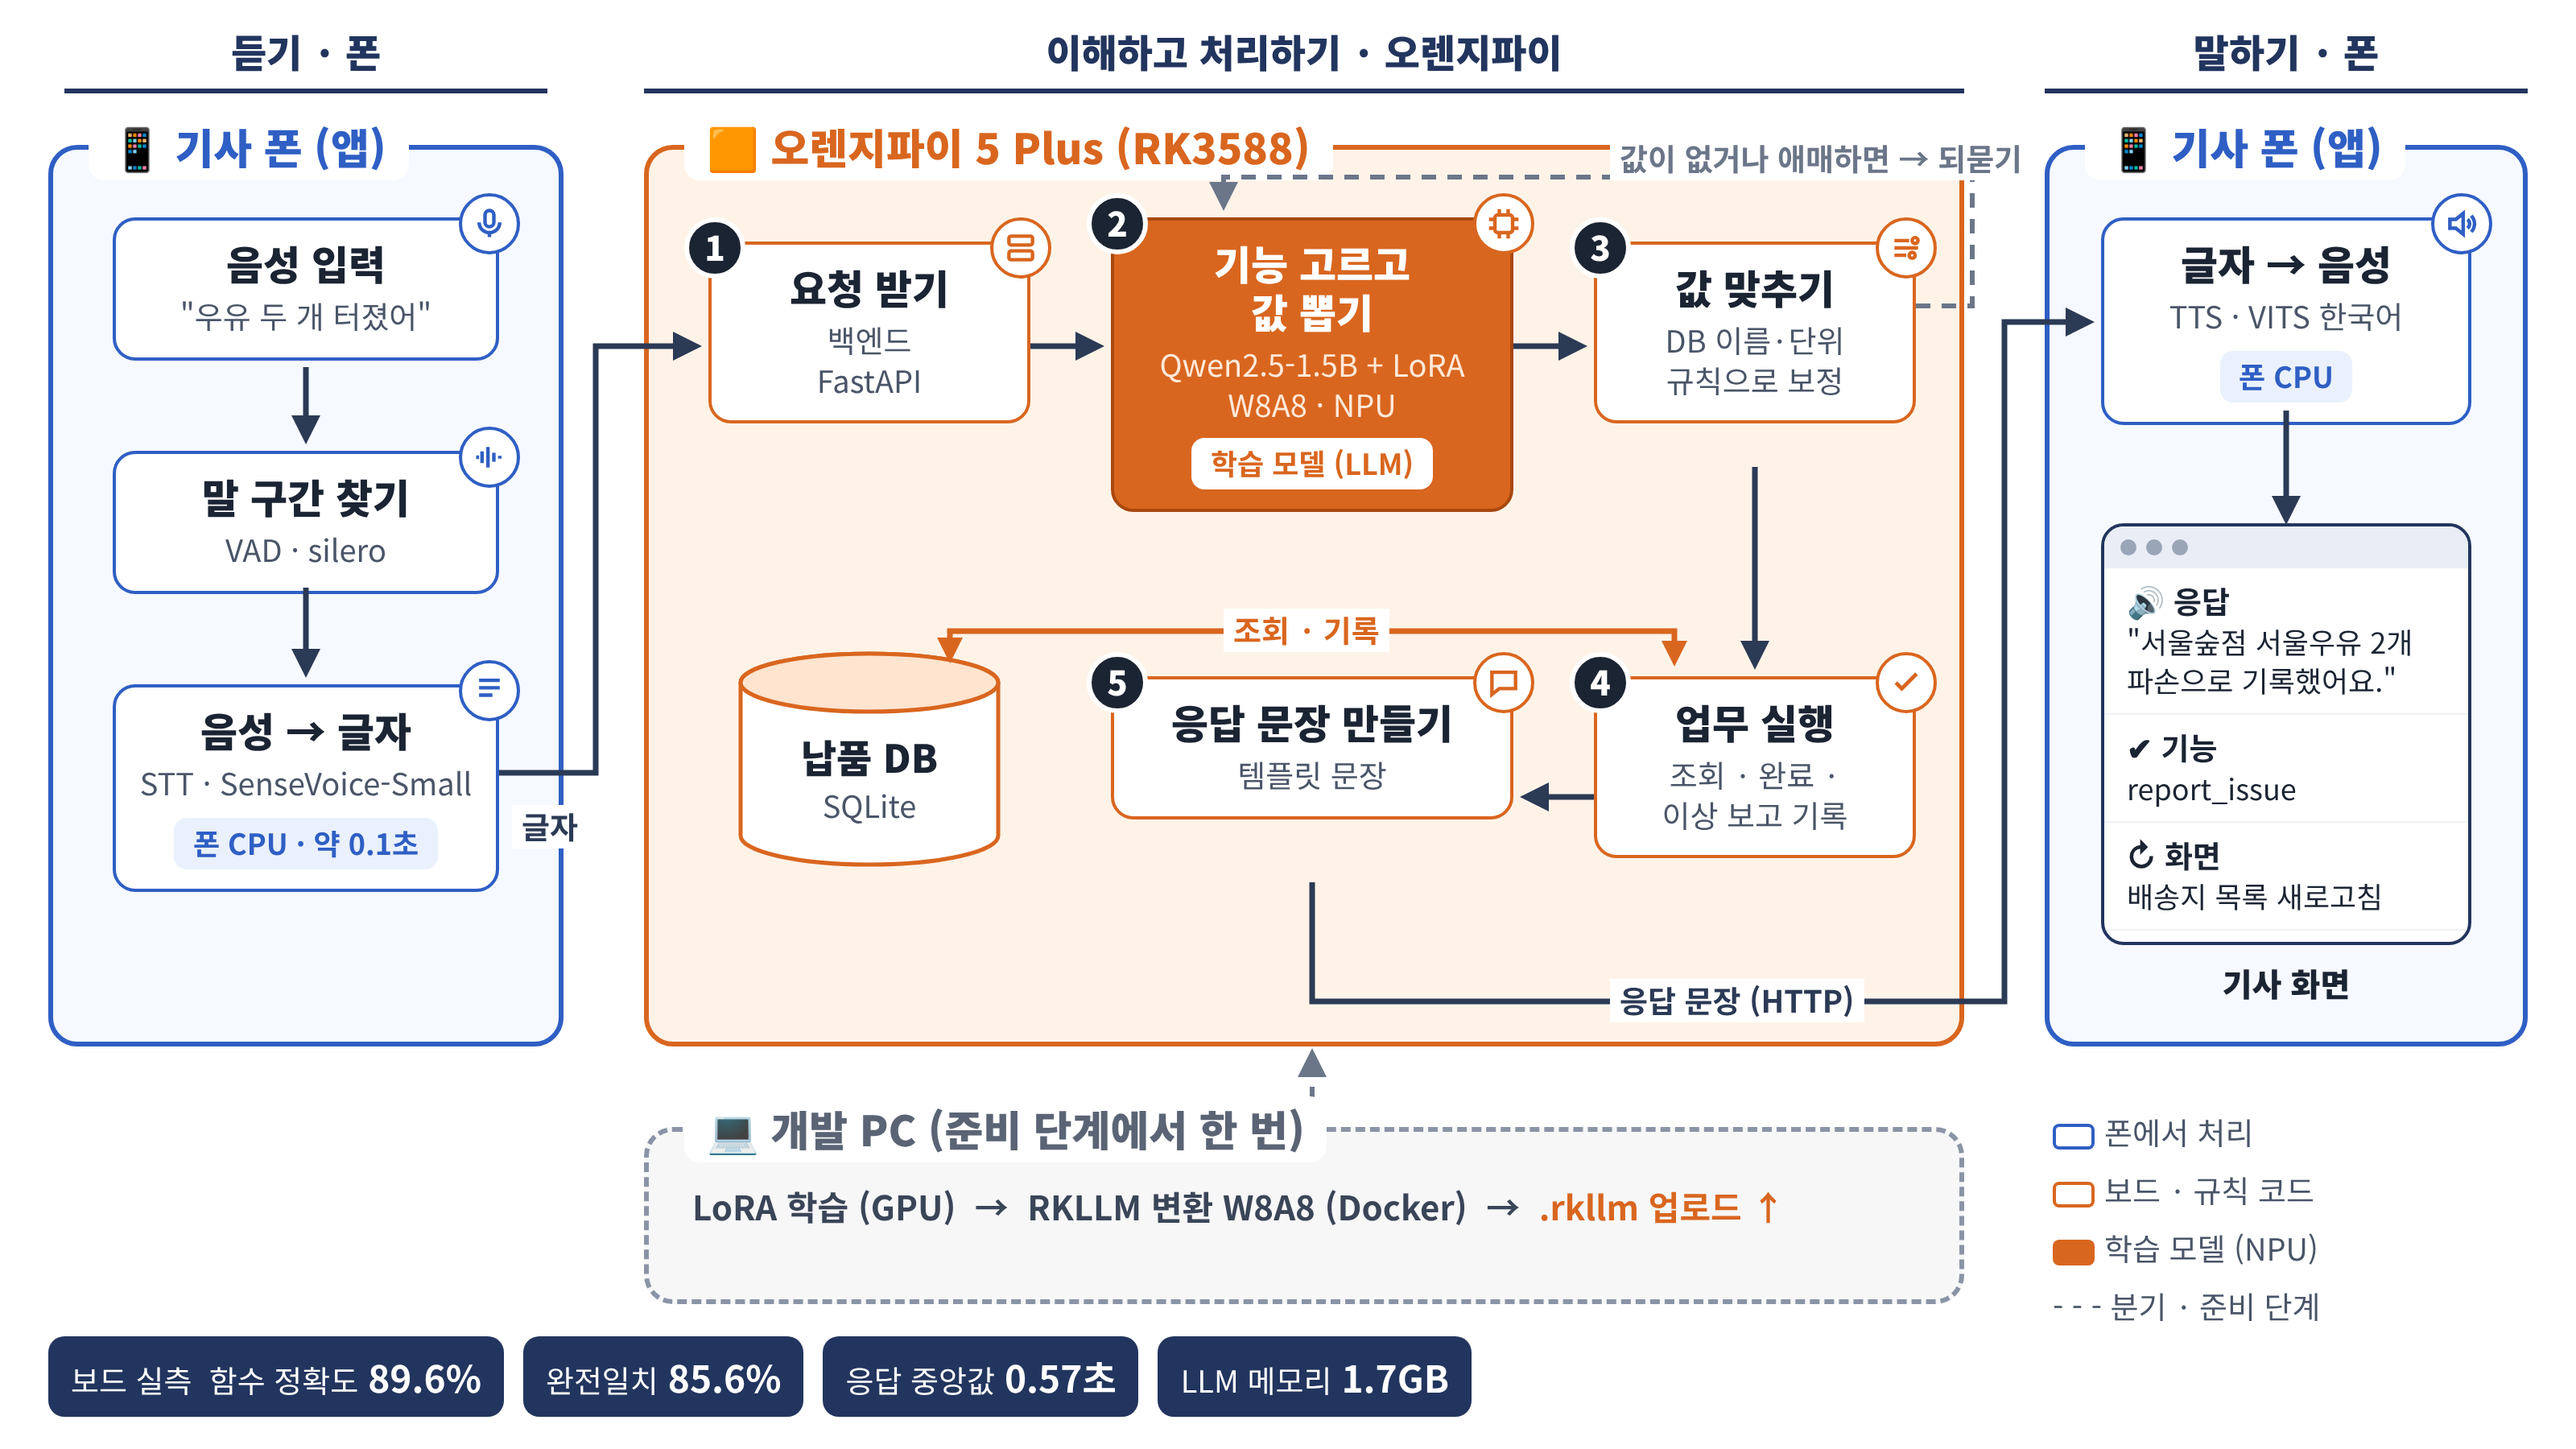
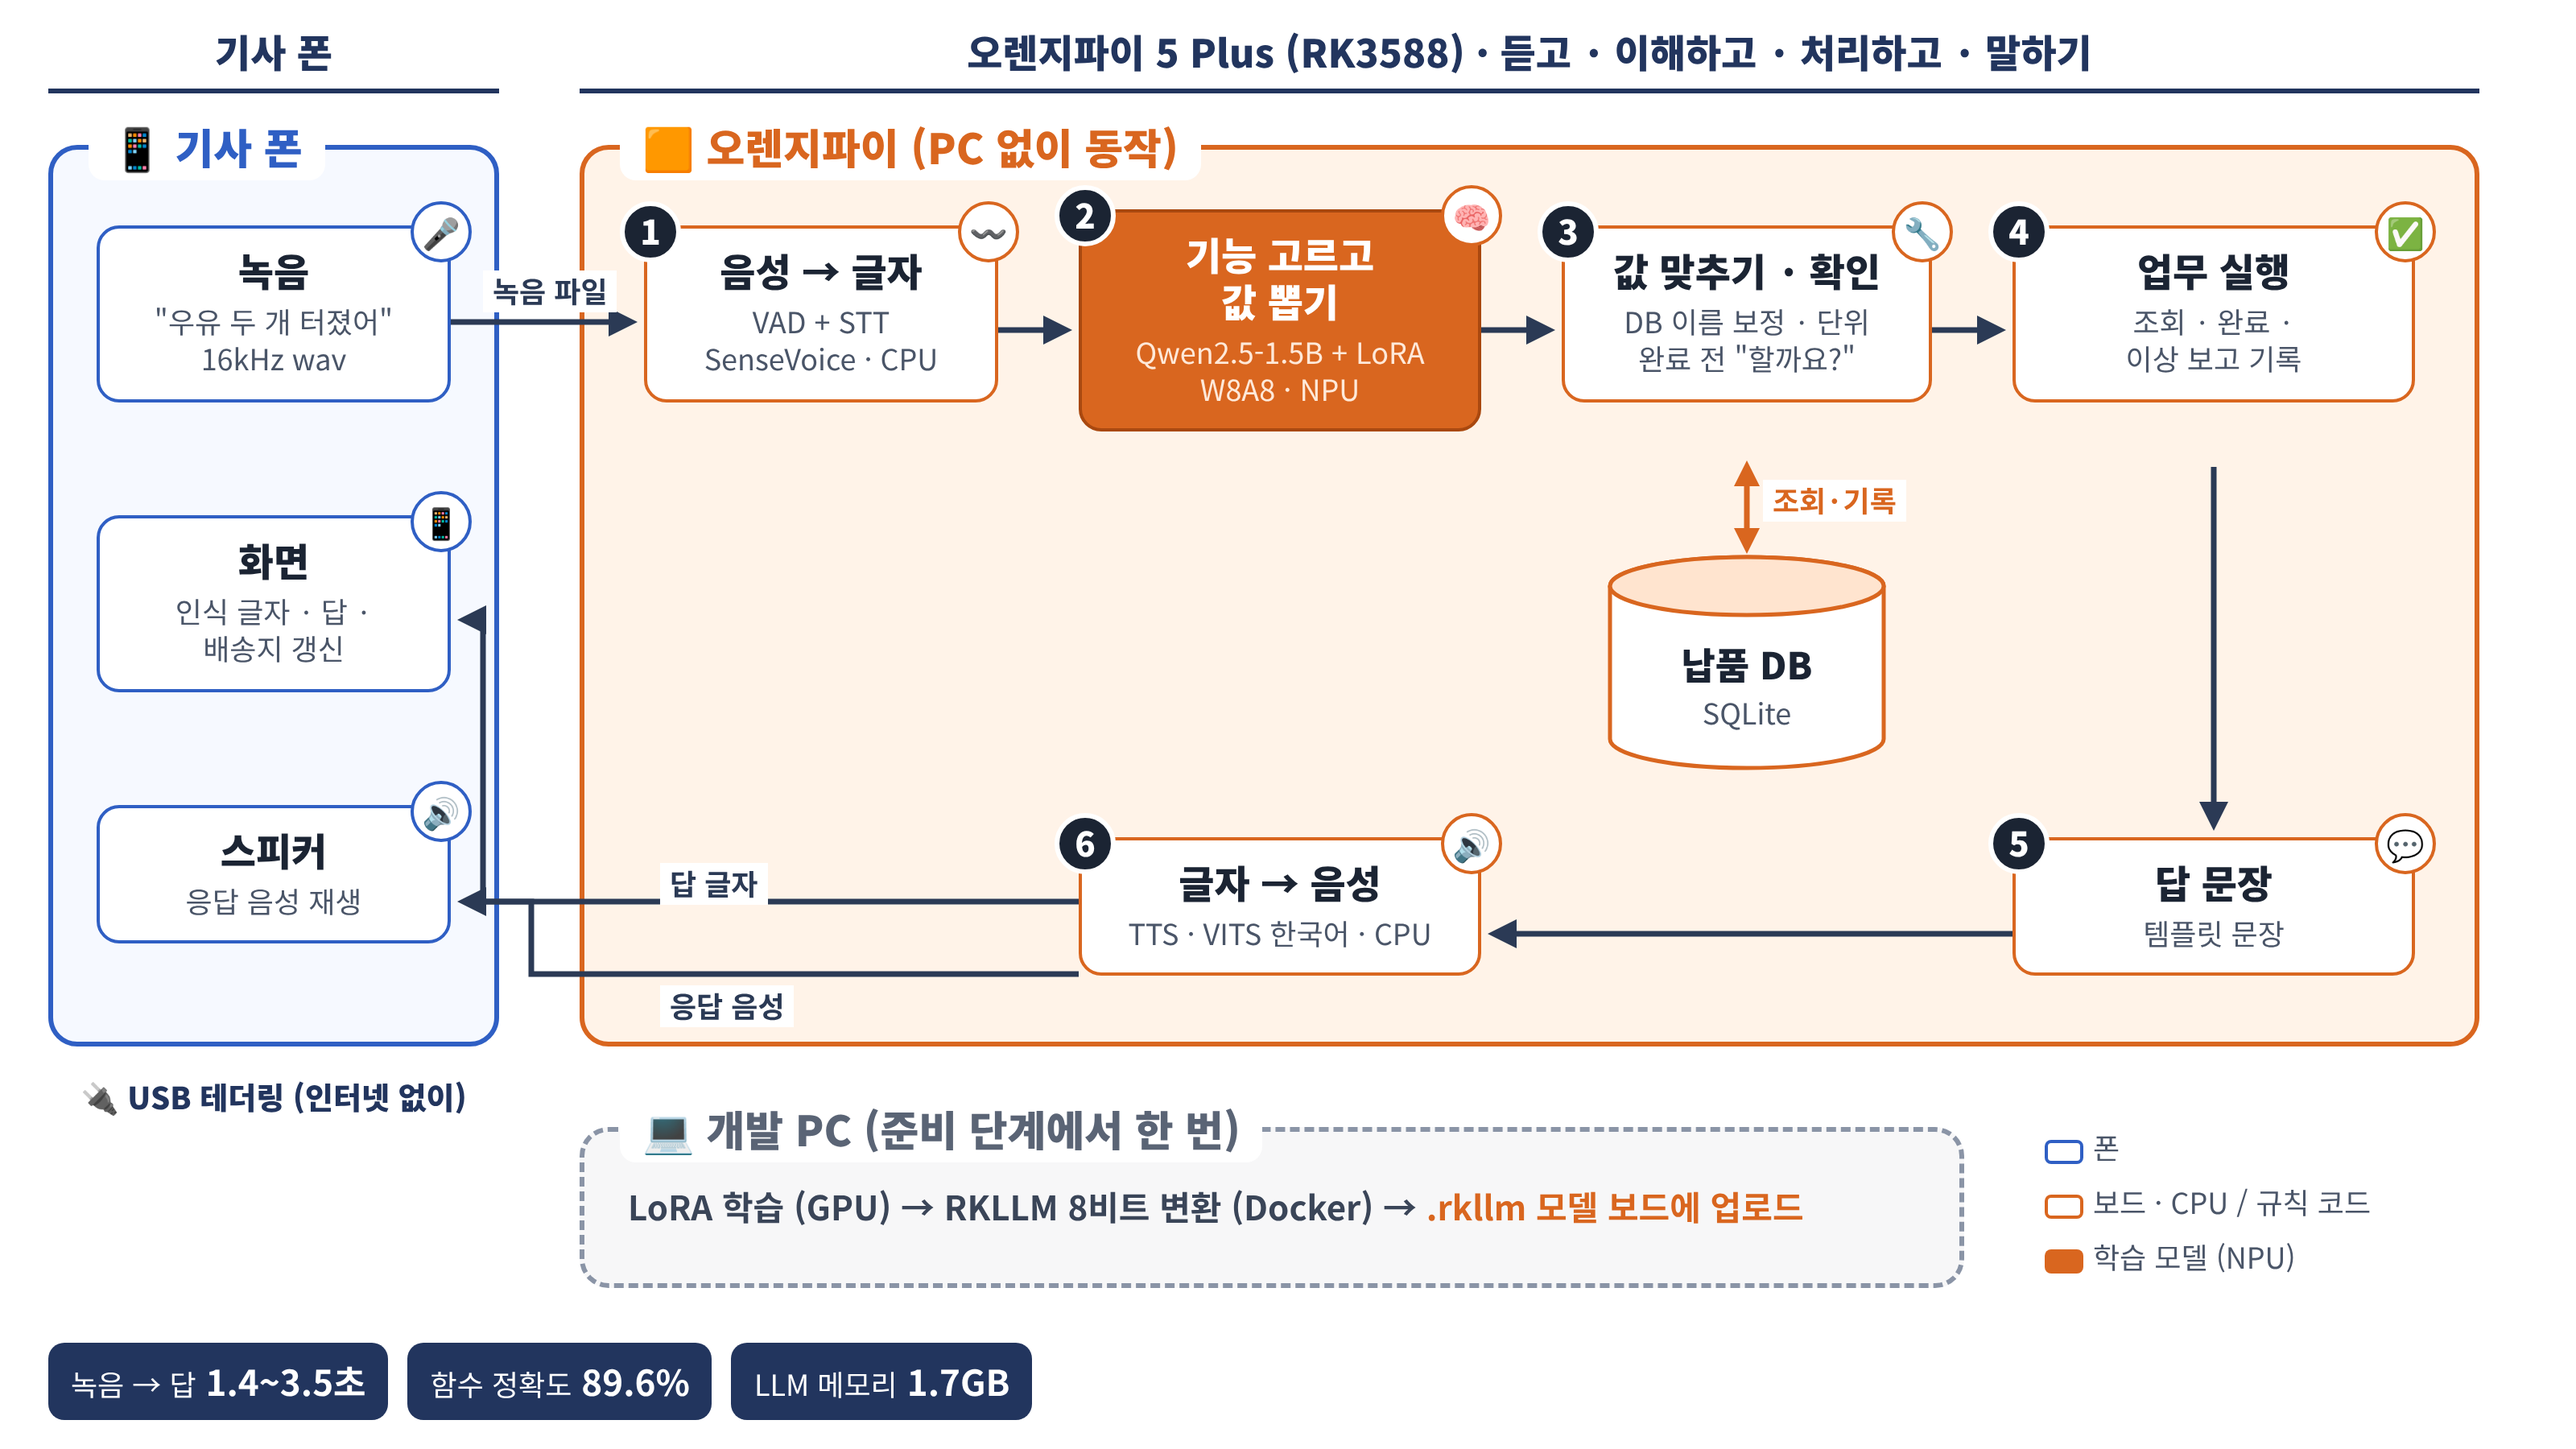
README 그림을 보드 STT·TTS 구조(v3)로 교체, board_deploy 6절을 반영 상태 기록으로
- docs/pipeline.png: STT·Qwen·TTS·DB 모두 보드인 새 그림. 예전 그림(폰 STT·TTS)은 docs/pipeline_v1_phone_stt.png 로 보관
- README: 예전 그림 설명 문장을 현재 구조 한 줄로
- docs/board_deploy.md 6절: 할 일 문장을 상태 기록으로. 반영된 것(납품 완료 되묻기, README 링크, 앱 conf 미사용)은 반영 완료,
  안 된 것(status llm_ok, systemd·venv·avahi·클럭 고정)은 미반영/미설치로 보드에서 확인한 대로. 테스트 수 23 → 58

Claude-Session: https://claude.ai/code/session_01XzTLUSm5ThcC5NFGhqhnE7

diff --git a/docs/board_deploy.md b/docs/board_deploy.md
@@ -185,19 +185,23 @@ systemctl --no-pager --lines=0 status logion-llm logion-backend
 - 글자 입력은 `/api/assistant/chat`, 소리 켜짐이면 `POST /api/assistant/tts` 로 답을 읽는다.
 - 보드 주소는 **더보기 → 보드 주소(서버)** 에서 입력·저장 (기본 예 `http://192.168.42.129:8000/`, 포트를 안 쓰면 8000). 읽기·연결 제한 시간 20초.
 - 앱 안 sherpa-onnx STT·TTS 와 모델(354MB)은 뺐다. debug APK 430MB → 58MB. 옛 파일은 `android/unused_on_device_speech/` (git 밖).
-- `conf` 는 보드(rkllm) 모드에서 항상 0.0 이다. 화면에 표시하거나 판단에 쓰지 말 것.
+- `conf` 는 보드(rkllm) 모드에서 항상 0.0 이다. 앱은 `conf` 를 화면 표시나 판단에 쓰지 않는다 (2026-11-23 코드 확인).
 
-### 백엔드 (backend/) — 보드에서 돌리는 데 꼭 필요한 변경은 없음
+### 백엔드 (backend/) — 2026-11-23 확인
 
-backend/tests 23개가 보드(rkllm 모드)에서 그대로 통과한다. 아래는 권장 사항:
+backend/tests **58개**가 보드(rkllm 모드, 커밋 5930ac7)와 PC 에서 모두 통과한다.
 
-1. **`/api/assistant/status`** (`backend/app/api/assistant.py`) — 지금은 파이프라인 객체가 있으면 `ready: true` 라서 LLM 서버가 꺼져 있어도 true 다. `bot.llm_health()` (rkllm 모드일 때만 존재)를 불러 `llm_ok` 같은 값을 추가하면 앱이 음성 버튼 상태를 정확히 보여 줄 수 있다.
-2. **위험한 납품 완료 오류** — 보드 test 431건 중 "이제 엄마한테 전화해주세요" 가 `complete(receiver=엄마)` 로 나온 1건이 있다 (PC 모델은 other). → **2026-11-20 반영:** `complete` 는 바로 기록하지 않고 "○○ 납품 완료할까요?" 로 되묻는다 (응/네/어/맞아 → 기록, 아니 → 취소, 다른 말 → 되묻기 버리고 새로 처리).
-3. **README** — "음성 비서까지 켜기" 에 보드 방식(이 문서) 링크 추가.
+| 항목 | 상태 |
+|---|---|
+| 위험한 납품 완료 오류: 보드 test 431건 중 "이제 엄마한테 전화해주세요" 가 `complete(receiver=엄마)` 로 나온 1건 (PC 모델은 other) | **반영 완료 (2026-11-20).** `complete` 는 바로 기록하지 않고 "○○ 납품 완료할까요?" 로 되묻는다. 응/네/어/맞아 → 기록, 아니 → 취소, 다른 말 → 되묻기 버리고 새로 처리 |
+| README 에 보드 방식 링크 | **반영 완료.** README 실행 방법에 이 문서 1·2·4절 링크 |
+| `/api/assistant/status` 에 LLM 서버 살아 있는지(`llm_ok`) | **미반영 (선택 개선).** 지금은 파이프라인 객체가 있으면 `ready: true` 라, LLM 서버가 꺼져 있어도 true 다. 시연 중 LLM 이 멈추면 백엔드가 8초 뒤 "잠시 후 다시 말씀해 주세요." 를 돌려주므로 시연에는 지장이 없다 |
 
-### 보드 관리자 (sudo 필요, 선택)
+### 보드 관리자 (sudo 필요, 선택) — 2026-11-23 보드 상태
 
-- 자동 실행: 위 2절 systemd 블록 붙여 넣기
-- `sudo apt install python3.10-venv` (없어도 setup_venv.sh 로 됨)
-- `.local` 이름으로 찾고 싶으면 avahi-daemon 활성화 (지금 inactive). 그러면 앱 주소를 `http://orangepi5plus.local:8000/` 로 쓸 수 있으나 Android 의 mDNS 지원이 기종마다 달라 IP 방식이 더 확실하다.
-- 정확한 속도 측정이 필요하면 rknn-llm 의 `fix_freq_rk3588.sh` 로 클럭 고정 (sudo)
+| 항목 | 상태 |
+|---|---|
+| 자동 실행 (2절 systemd 블록) | **미설치.** `logion-backend`·`logion-llm` 서비스가 없다. 지금은 `start_all.sh` 로 켠다 |
+| `python3.10-venv` | **미설치.** 없어도 `setup_venv.sh` 로 된다 |
+| avahi-daemon (`orangepi5plus.local` 이름) | **꺼져 있음 (inactive).** Android 의 mDNS 지원이 기종마다 달라서 IP 방식으로 쓴다 |
+| 클럭 고정 (`fix_freq_rk3588.sh`) | **안 함.** 측정값은 모두 클럭 고정 없이 잰 것이다 |

diff --git a/README.md b/README.md
@@ -36,7 +36,7 @@
  └──────────────────┘   (USB 테더링, 포트 8000)        └─────────────────────────────────────────────┘
 ```
 
-아래 그림은 AI 처리 흐름(②)을 자세히 그린 것입니다. 그림에는 STT·TTS 가 폰에 있는 예전 구조가 그려져 있고, 지금은 둘 다 보드에서 돕니다 ([음성 API](docs/voice_api.md)).
+STT·Qwen·TTS·DB 가 모두 보드에서 돌고, 폰은 녹음·화면·스피커만 맡습니다.
 
 ![LogiOn 전체 파이프라인](docs/pipeline.png)
 
